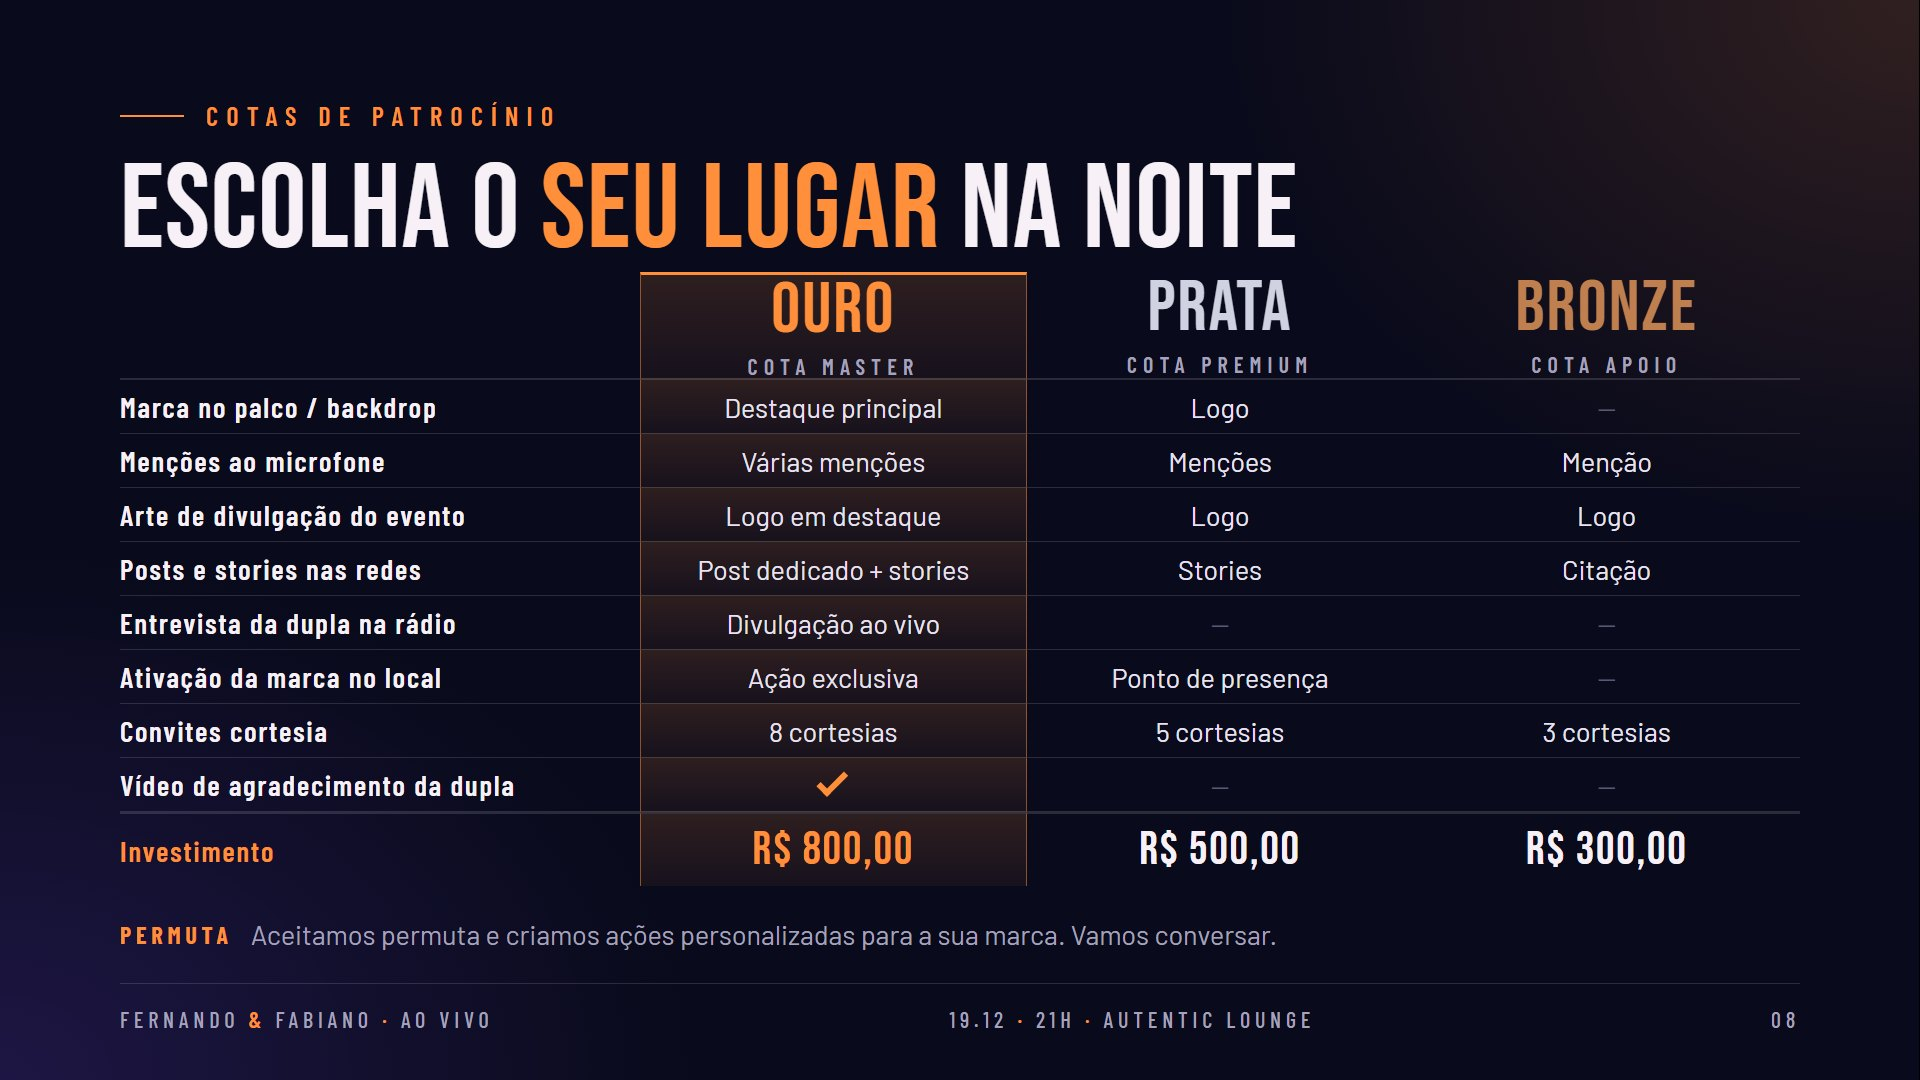
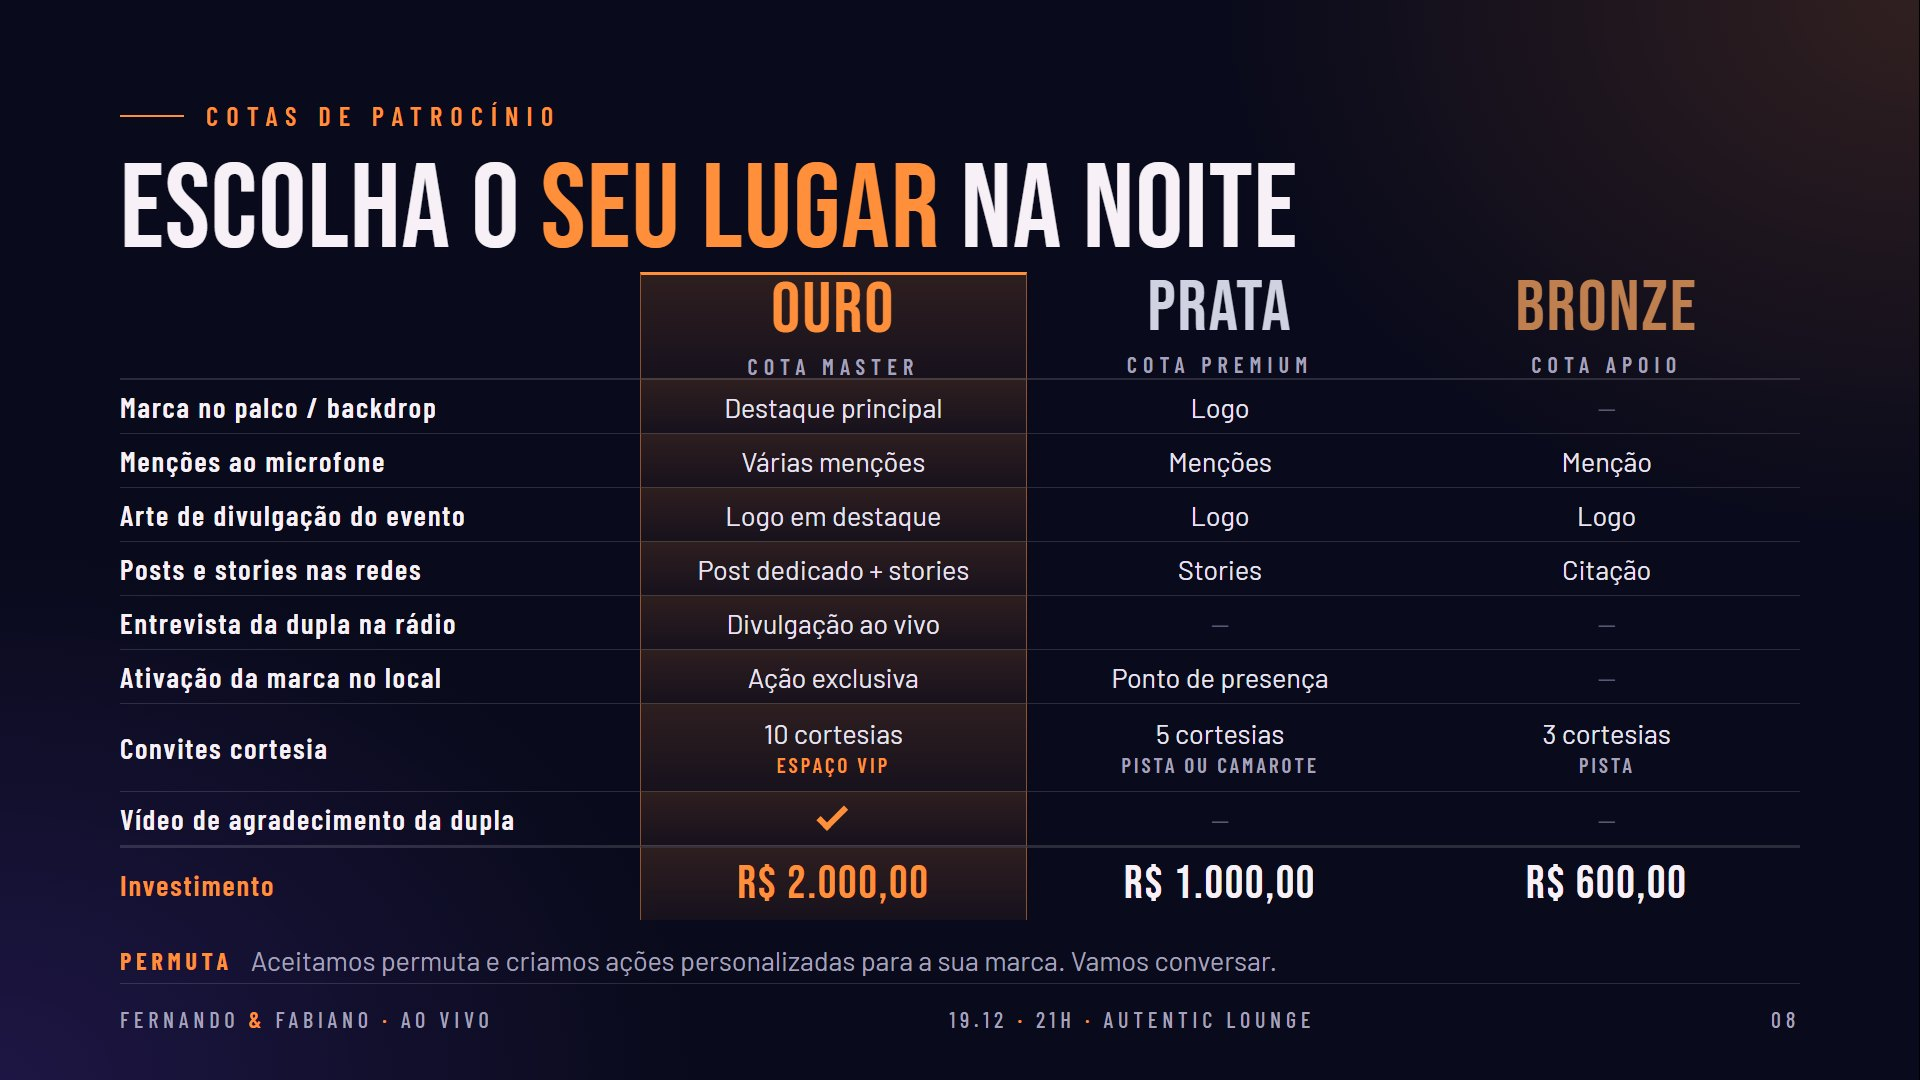
Novos valores das cotas: Ouro R$ 2.000, Prata R$ 1.000, Bronze R$ 600

Changed region(s): [[0.0625, 0.6722, 0.6875, 0.9167], [0.7812, 0.6722, 0.9062, 0.8556]]

diff --git a/index.html b/index.html
@@ -192,6 +192,8 @@ img{max-width:100%}
 .m-plano dl div{display:flex;justify-content:space-between;gap:16px;padding:11px 0;border-top:1px solid var(--linha);font-size:15px;line-height:1.35}
 .m-plano dt{color:var(--texto-2)}
 .m-plano dd{text-align:right;font-weight:500}
+.m-plano dd .sub{display:block;margin-top:4px;font:600 12px/1 var(--cond);letter-spacing:.16em;text-transform:uppercase;color:var(--texto-2)}
+.m-plano.ouro dd .sub{color:var(--brasa-2)}
 .m-plano dd.nao{color:var(--texto-3);font-weight:400}
 
 .m-pills{display:flex;flex-wrap:wrap;gap:8px;margin-top:18px}
@@ -277,7 +279,7 @@ img{max-width:100%}
   <div class="quadro"><div class="slide" data-n="5"><img src="slides/s05.jpg" alt="O local: Autentic Lounge, em São Lourenço (MG), com capacidade para 1.500 pessoas" width="1920" height="1080" loading="lazy"></div></div>
   <div class="quadro"><div class="slide" data-n="6"><img src="slides/s06.jpg" alt="Por que estar nessa noite: audiência de verdade, paixão nacional, experiência ao vivo e marca lembrada" width="1920" height="1080" loading="lazy"></div></div>
   <div class="quadro"><div class="slide" data-n="7"><img src="slides/s07.jpg" alt="Sua marca em cada momento: divulgação antes, durante o show e repercussão depois" width="1920" height="1080" loading="lazy"></div></div>
-  <div class="quadro"><div class="slide" data-n="8"><img src="slides/s08.jpg" alt="Cotas de patrocínio: Ouro R$ 800,00, Prata R$ 500,00 e Bronze R$ 300,00" width="1920" height="1080" loading="lazy"></div></div>
+  <div class="quadro"><div class="slide" data-n="8"><img src="slides/s08.jpg" alt="Cotas de patrocínio: Ouro R$ 2.000,00 com 10 cortesias no espaço VIP, Prata R$ 1.000,00 com 5 cortesias na pista ou camarote e Bronze R$ 600,00 com 3 cortesias na pista" width="1920" height="1080" loading="lazy"></div></div>
   <div class="quadro"><div class="slide" data-n="9"><img src="slides/s09.jpg" alt="Diferencial do plano Ouro: a dupla ao vivo na rádio local, com divulgação dos patrocinadores" width="1920" height="1080" loading="lazy"></div></div>
   <div class="quadro"><div class="slide" data-n="10"><img src="slides/s10.jpg" alt="Próximos passos: escolha a cota, alinhamento da ativação e sua marca no palco em 19 de dezembro" width="1920" height="1080" loading="lazy"></div></div>
   <div class="quadro"><div class="slide" data-n="11"><img src="slides/s11.jpg" alt="Sobre a Boreal Produções. Responsável: Eduardo Baroni, WhatsApp (21) 96799-1111, e-mail baroni@tutamail.com, Instagram @baroniedu" width="1920" height="1080" loading="lazy"></div></div>
@@ -380,7 +382,7 @@ img{max-width:100%}
     <h2 class="m-h2 rev">Escolha o seu lugar <em>na noite</em></h2>
 
     <article class="m-plano ouro rev">
-      <header><div><h3>Ouro</h3><small>Cota master</small></div><div class="m-preco"><b>R$ 800,00</b><span>Investimento</span></div></header>
+      <header><div><h3>Ouro</h3><small>Cota master</small></div><div class="m-preco"><b>R$ 2.000,00</b><span>Investimento</span></div></header>
       <dl>
         <div><dt>Marca no palco / backdrop</dt><dd>Destaque principal</dd></div>
         <div><dt>Menções ao microfone</dt><dd>Várias menções</dd></div>
@@ -388,13 +390,13 @@ img{max-width:100%}
         <div><dt>Posts e stories nas redes</dt><dd>Post dedicado + stories</dd></div>
         <div><dt>Entrevista da dupla na rádio</dt><dd>Divulgação ao vivo</dd></div>
         <div><dt>Ativação da marca no local</dt><dd>Ação exclusiva</dd></div>
-        <div><dt>Convites cortesia</dt><dd>8 cortesias</dd></div>
+        <div><dt>Convites cortesia</dt><dd>10 cortesias<span class="sub">Espaço VIP</span></dd></div>
         <div><dt>Vídeo de agradecimento da dupla</dt><dd>Incluído</dd></div>
       </dl>
     </article>
 
     <article class="m-plano prata rev">
-      <header><div><h3>Prata</h3><small>Cota premium</small></div><div class="m-preco"><b>R$ 500,00</b><span>Investimento</span></div></header>
+      <header><div><h3>Prata</h3><small>Cota premium</small></div><div class="m-preco"><b>R$ 1.000,00</b><span>Investimento</span></div></header>
       <dl>
         <div><dt>Marca no palco / backdrop</dt><dd>Logo</dd></div>
         <div><dt>Menções ao microfone</dt><dd>Menções</dd></div>
@@ -402,13 +404,13 @@ img{max-width:100%}
         <div><dt>Posts e stories nas redes</dt><dd>Stories</dd></div>
         <div><dt>Entrevista da dupla na rádio</dt><dd class="nao">Não inclui</dd></div>
         <div><dt>Ativação da marca no local</dt><dd>Ponto de presença</dd></div>
-        <div><dt>Convites cortesia</dt><dd>5 cortesias</dd></div>
+        <div><dt>Convites cortesia</dt><dd>5 cortesias<span class="sub">Pista ou camarote</span></dd></div>
         <div><dt>Vídeo de agradecimento da dupla</dt><dd class="nao">Não inclui</dd></div>
       </dl>
     </article>
 
     <article class="m-plano bronze rev">
-      <header><div><h3>Bronze</h3><small>Cota apoio</small></div><div class="m-preco"><b>R$ 300,00</b><span>Investimento</span></div></header>
+      <header><div><h3>Bronze</h3><small>Cota apoio</small></div><div class="m-preco"><b>R$ 600,00</b><span>Investimento</span></div></header>
       <dl>
         <div><dt>Marca no palco / backdrop</dt><dd class="nao">Não inclui</dd></div>
         <div><dt>Menções ao microfone</dt><dd>Menção</dd></div>
@@ -416,7 +418,7 @@ img{max-width:100%}
         <div><dt>Posts e stories nas redes</dt><dd>Citação</dd></div>
         <div><dt>Entrevista da dupla na rádio</dt><dd class="nao">Não inclui</dd></div>
         <div><dt>Ativação da marca no local</dt><dd class="nao">Não inclui</dd></div>
-        <div><dt>Convites cortesia</dt><dd>3 cortesias</dd></div>
+        <div><dt>Convites cortesia</dt><dd>3 cortesias<span class="sub">Pista</span></dd></div>
         <div><dt>Vídeo de agradecimento da dupla</dt><dd class="nao">Não inclui</dd></div>
       </dl>
     </article>
